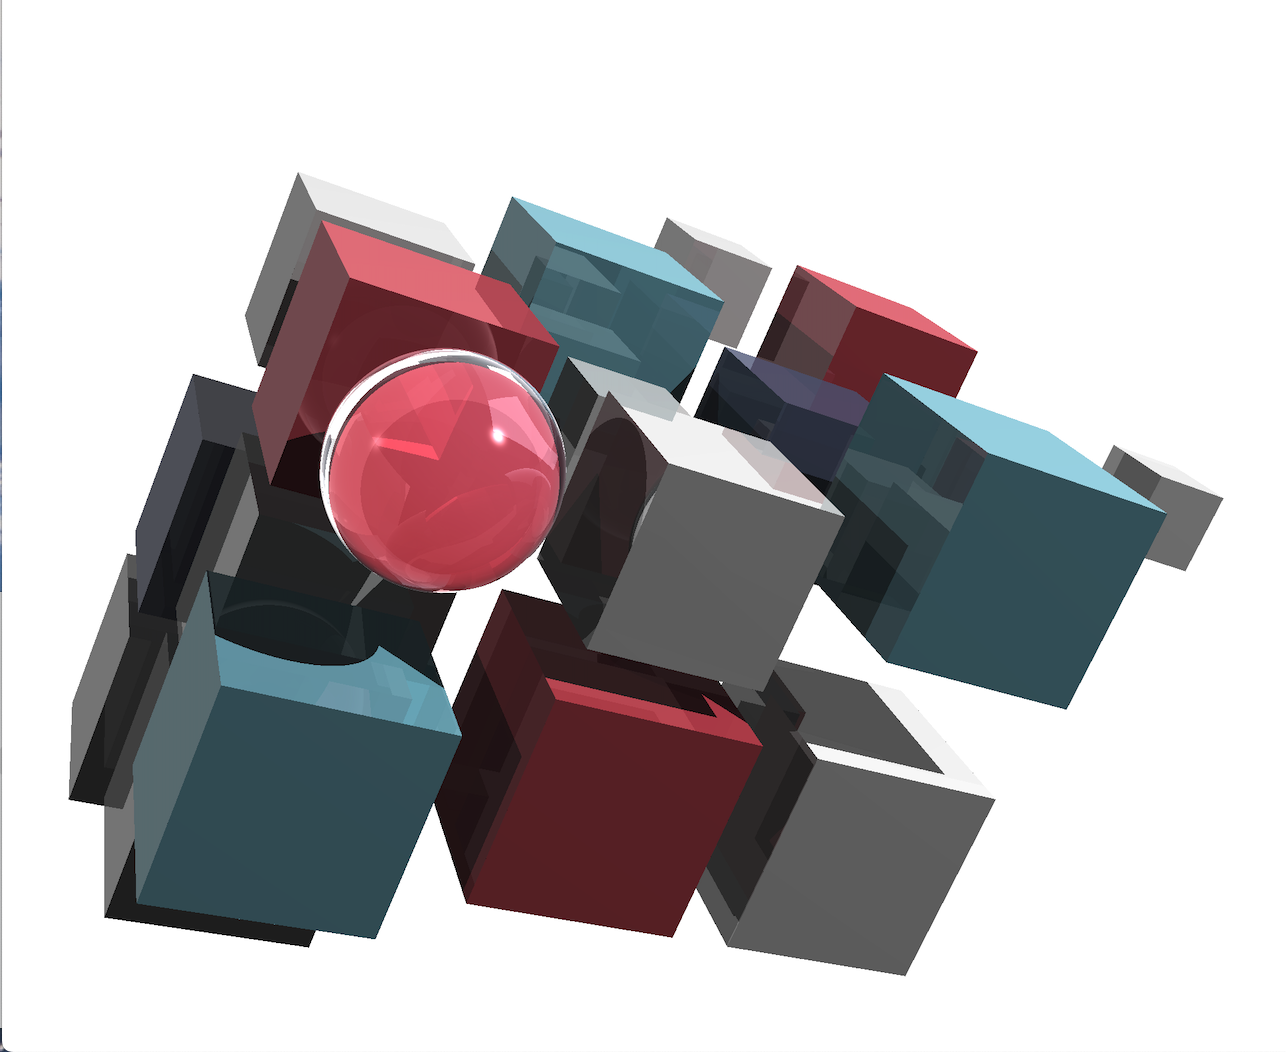
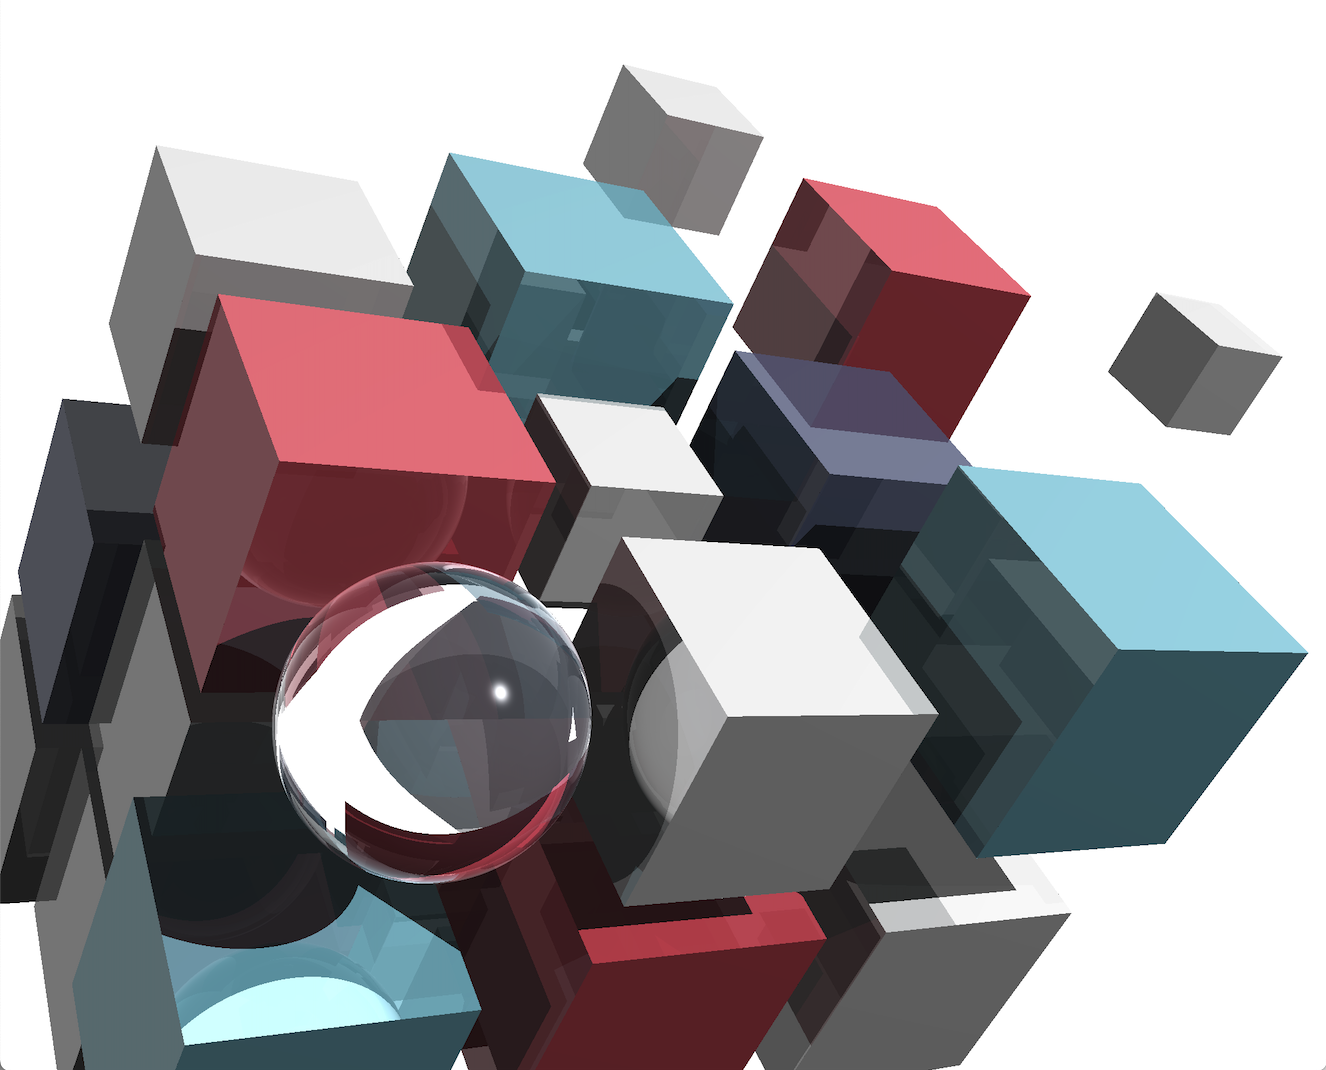
improved appendix1 image

diff --git a/src/chapters/appendix1.rs b/src/chapters/appendix1.rs
@@ -35,10 +35,14 @@ pub fn run(hsize: usize, vsize: usize) {
     material_purple.reflective = 0.1;
     material_purple.color = color(0.373, 0.404, 0.550);
 
-    let standard_transform = make_translation(1.0, -1.0, 1.0) * make_scaling(0.5, 0.5, 0.5);
-    let large_object = standard_transform * make_scaling(3.5, 3.5, 3.5);
-    let medium_object = standard_transform * make_scaling(3.0, 3.0, 3.0);
-    let small_object = standard_transform * make_scaling(2.0, 2.0, 2.0);
+    //let standard_transform = make_translation(1.0, -1.0, 1.0) * make_scaling(0.5, 0.5, 0.5);
+    let standard_transform = make_scaling(0.5, 0.5, 0.5) * make_translation(1.0, -1.0, 1.0);
+    //let large_object = standard_transform * make_scaling(3.5, 3.5, 3.5);
+    //let medium_object = standard_transform * make_scaling(3.0, 3.0, 3.0);
+    //let small_object = standard_transform * make_scaling(2.0, 2.0, 2.0);
+    let large_object = make_scaling(3.5, 3.5, 3.5) * standard_transform;
+    let medium_object = make_scaling(3.0, 3.0, 3.0) * standard_transform;
+    let small_object = make_scaling(2.0, 2.0, 2.0) * standard_transform;
 
     let mut plane = plane();
     let mut mat = Material::default();
@@ -135,7 +139,7 @@ pub fn run(hsize: usize, vsize: usize) {
 
     let mut camera = Camera::new(hsize, vsize, 0.785);
     camera.transform = view_transform(
-        &point(-6.0, 6.0, -20.0),
+        &point(-6.0, 10.0, -10.0),
         &point(6.0, 0.0, 6.0),
         &vector(-0.45, 1.0, 0.0),
     );
